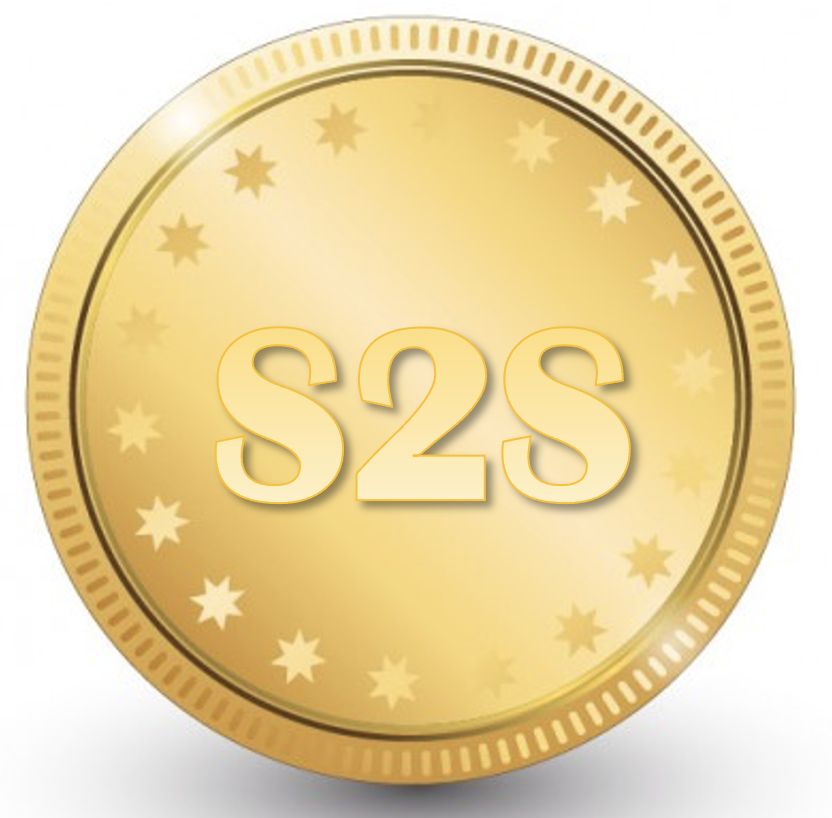
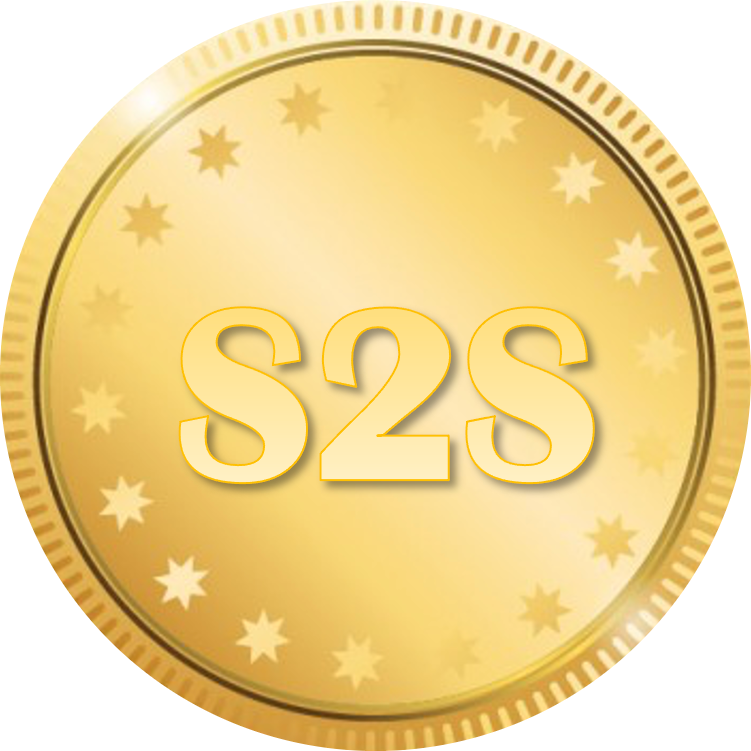
more

diff --git a/components/footer.tsx b/components/footer.tsx
@@ -1,4 +1,7 @@
 import { styled } from "@mui/material/styles";
+import { Link } from '@mui/material';
+import { Divider } from '@mui/material';
+import { Grid } from '@mui/material';
 
 const MyFooter = styled('footer')({
   color: "white",
@@ -11,5 +14,30 @@ const MyFooter = styled('footer')({
 
 
 export default function Footer() {
-  return <MyFooter>Footer</MyFooter>;
+  return <MyFooter>
+    <h4>Software and Information System Engineering</h4>
+    <br />
+    <Divider />
+    <br />
+    <h6>Advisior : Mr. Zevin Ofer , Head of FinTech Research and Development at exLab academic in Ben Gurion University</h6>
+    <h6> zevin@post.bgu.ac.il </h6>
+    <br />
+    <Divider />
+    <br />
+
+    <Grid container spacing={2}>
+  <Grid item xs={4}>
+  <Link href=" https://www.linkedin.com/in/lior-savchenko-6692101a8/" color="#FFFFFF">Lior Savchenko</Link>
+    <h6> LIORSAV@post.bgu.ac.il </h6>
+  </Grid>
+  <Grid item xs={4}>
+  <Link href="https://www.linkedin.com/in/sapir-shamay/" color="#FFFFFF">Sapir Shamay</Link>
+    <h6> sapirnag@post.bgu.ac.il </h6>
+  </Grid>
+  <Grid item xs={4}>
+  <Link href="https://www.linkedin.com/in/dorshireto/" color="#FFFFFF">Dor Shireto</Link>
+    <h6> shiretod@post.bgu.ac.il </h6>
+  </Grid>
+</Grid>
+  </MyFooter>;
 }

diff --git a/components/accessDenied.tsx b/components/accessDenied.tsx
@@ -42,9 +42,9 @@ export default function AccessDenied() {
   </Grid>
   <Grid item xs={4} mt={15}>
             <Image
-              src={"/images/ether.png"}
+              src={"/images/coin.png"}
               alt={"logo"}
-              width={"300px"}
+              width={"200px"}
               height={"180px"}
             ></Image>
   </Grid>

diff --git a/components/header.tsx b/components/header.tsx
@@ -104,7 +104,7 @@ export default function Header() {
               style={{ marginRight: 10 }}
             >
               <Image
-                src={"/images/ether.png"}
+                src={"/images/coin.png"}
                 alt={"logo"}
                 width={40}
                 height={40}
